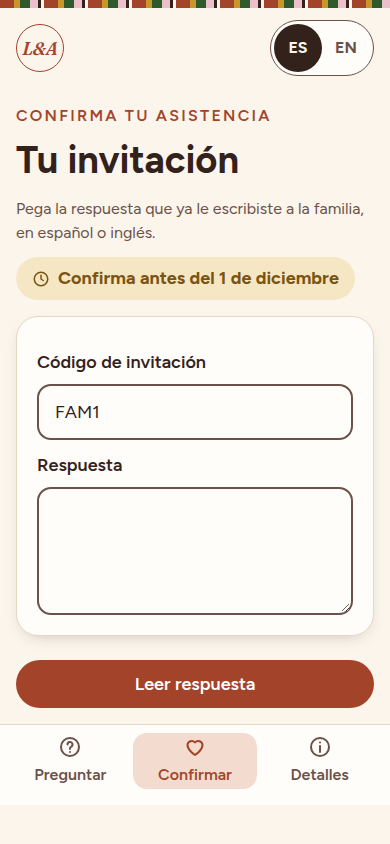
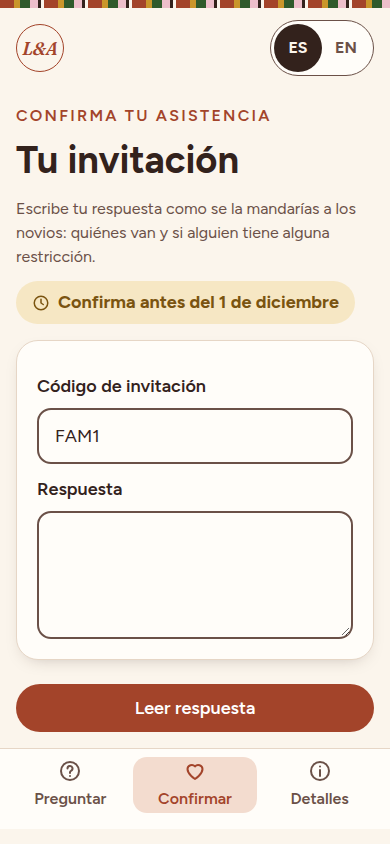
fix: rewrite the RSVP lede and show a code example
Guests now see how to write the reply they would text the couple, in Spanish and English. The invite code field shows Ej. GARCIA-24.

Changed region(s): [[0.0308, 0.2156, 0.9231, 0.6161], [0.0308, 0.7085, 0.9846, 0.9858], [0.8615, 0.4313, 0.9231, 0.6161]]

diff --git a/src/pages/RsvpPage.tsx b/src/pages/RsvpPage.tsx
@@ -21,7 +21,8 @@ const COPY = {
   es: {
     eyebrow: 'Confirma tu asistencia',
     title: 'Tu invitación',
-    hint: 'Pega la respuesta que ya le escribiste a la familia, en español o inglés.',
+    hint: 'Escribe tu respuesta como se la mandarías a los novios: quiénes van y si alguien tiene alguna restricción.',
+    codePlaceholder: 'Ej. GARCIA-24',
     deadline: (month: string) => `Confirma antes del 1 de ${month}`,
     message: 'Respuesta',
     code: 'Código de invitación',
@@ -58,7 +59,8 @@ const COPY = {
   en: {
     eyebrow: 'Confirm your attendance',
     title: 'Your invitation',
-    hint: 'Paste the reply you already sent the family, in Spanish or English.',
+    hint: "Write your reply like you'd text the couple: who's coming and any dietary needs.",
+    codePlaceholder: 'e.g. GARCIA-24',
     deadline: (month: string) => `Confirm before 1 ${month}`,
     message: 'Reply',
     code: 'Invite code',
@@ -243,6 +245,7 @@ function RsvpScreen() {
                 id="invite-code"
                 className="input"
                 value={code}
+                placeholder={copy.codePlaceholder}
                 autoComplete="off"
                 onChange={(event) => setCode(event.target.value)}
               />

diff --git a/src/pages/RsvpPage.test.tsx b/src/pages/RsvpPage.test.tsx
@@ -61,6 +61,18 @@ describe('RsvpPage', () => {
     });
     renderRsvp();
     expect(await screen.findByRole('heading', { name: 'Tu invitación' })).toBeTruthy();
+    expect(
+      screen.getByText(
+        'Escribe tu respuesta como se la mandarías a los novios: quiénes van y si alguien tiene alguna restricción.',
+      ),
+    ).toBeTruthy();
+    expect(screen.getByLabelText('Código de invitación')).toHaveProperty('placeholder', 'Ej. GARCIA-24');
+    await user.click(screen.getByRole('button', { name: /^EN$/ }));
+    expect(
+      screen.getByText("Write your reply like you'd text the couple: who's coming and any dietary needs."),
+    ).toBeTruthy();
+    expect(screen.getByLabelText('Invite code')).toHaveProperty('placeholder', 'e.g. GARCIA-24');
+    await user.click(screen.getByRole('button', { name: /^ES$/ }));
     await user.type(screen.getByLabelText('Respuesta'), 'Si, vamos tres');
     await user.click(screen.getByRole('button', { name: 'Leer respuesta' }));
     expect(await screen.findByRole('button', { name: 'Sí, ahí estaremos' })).toHaveProperty('ariaPressed', 'true');

diff --git a/e2e/rsvp.spec.ts b/e2e/rsvp.spec.ts
@@ -46,6 +46,12 @@ test('online reply confirms and reaches success', async ({ page }) => {
   await page.setViewportSize({ width: 390, height: 844 });
   await page.goto('/rsvp?code=FAM1');
   await expect(page.getByRole('heading', { name: 'Tu invitación' })).toBeVisible();
+  await expect(
+    page.getByText(
+      'Escribe tu respuesta como se la mandarías a los novios: quiénes van y si alguien tiene alguna restricción.',
+    ),
+  ).toBeVisible();
+  await expect(page.getByLabel('Código de invitación')).toHaveAttribute('placeholder', 'Ej. GARCIA-24');
   await page.screenshot({ path: 'docs/screenshots/rsvp-paste-mobile.png', fullPage: true });
   await page.getByLabel('Respuesta').fill('Si, vamos tres. Uno vegetariano.');
   await page.getByRole('button', { name: 'Leer respuesta' }).click();
